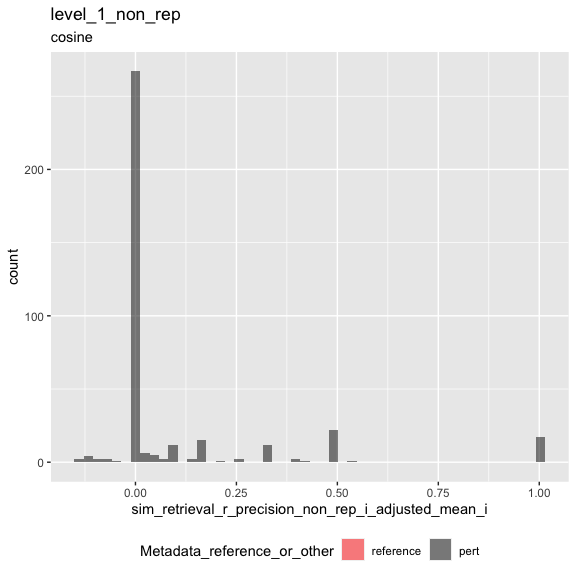
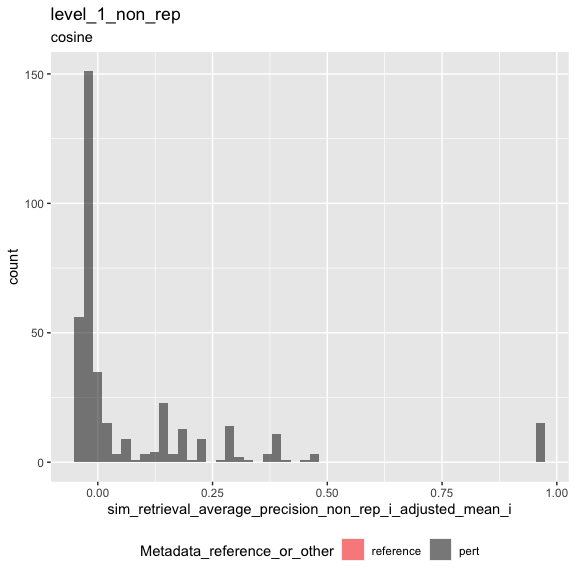
bin n

diff --git a/matric/results/d895866b/4.inspect_metrics.md b/matric/results/d895866b/4.inspect_metrics.md
@@ -353,6 +353,39 @@ level_1_0_metrics %>%
 |                            6 |                              286 |
 
 ``` r
+pow <- 1.3
+points <- level_1_0_metrics[[glue("sim_stat_background_n_{type}_i")]]
+max_value <- max(points)
+break_point <- ceiling(seq(1, ceiling((max_value)^(1/pow)), 1)**(pow))
+points_mapped <- points %>% map_dbl(function(i) break_point[min(which(break_point > i))])
+
+level_1_0_metrics <-
+  level_1_0_metrics %>%
+  mutate(sim_stat_background_n_mapped = points_mapped)
+```
+
+``` r
+level_1_0_metrics %>%
+  distinct(across(all_of(c(
+    glue("sim_stat_signal_n_{type}_i"),
+    "sim_stat_background_n_mapped"
+    #glue("sim_stat_background_n_{type}_i")
+  ))))
+```
+
+| sim_stat_signal_n\_non_rep_i | sim_stat_background_n\_mapped |
+|-----------------------------:|------------------------------:|
+|                            1 |                           289 |
+|                            2 |                           289 |
+|                            3 |                           289 |
+|                            4 |                           289 |
+|                            9 |                           289 |
+|                            6 |                           289 |
+|                            5 |                           289 |
+|                            8 |                           289 |
+|                            7 |                           289 |
+
+``` r
 future::plan(future::multisession, workers = 14)
 ```
 
@@ -361,7 +394,8 @@ null_thresholds <-
   level_1_0_metrics %>%
   distinct(across(all_of(c(
     glue("sim_stat_signal_n_{type}_i"),
-    glue("sim_stat_background_n_{type}_i")
+    "sim_stat_background_n_mapped"
+    #glue("sim_stat_background_n_{type}_i")
   )))) %>%
   rename(m = 1, n = 2) %>%
   furrr::future_pmap_dfr(function(m, n)
@@ -371,38 +405,32 @@ null_thresholds <-
   },
   .options = furrr::furrr_options(seed = params$random_seed))
 
-null_thresholds
+null_thresholds %>%
+  arrange(m, n)
 ```
 
 |   m |   n | sim_stat_average_precision_null | sim_stat_r\_precision_null |
 |----:|----:|--------------------------------:|---------------------------:|
-|   1 | 287 |                       0.0344828 |                  0.0000000 |
-|   2 | 287 |                       0.0438459 |                  0.0000000 |
-|   3 | 287 |                       0.0507361 |                  0.0000000 |
-|   4 | 287 |                       0.0554044 |                  0.0000000 |
-|   9 | 287 |                       0.0795844 |                  0.1111111 |
-|   6 | 287 |                       0.0663900 |                  0.1666667 |
-|   5 | 287 |                       0.0627438 |                  0.0000000 |
-|   8 | 287 |                       0.0719994 |                  0.1250000 |
-|   1 | 286 |                       0.0344828 |                  0.0000000 |
-|   4 | 286 |                       0.0557231 |                  0.0000000 |
-|   3 | 286 |                       0.0514284 |                  0.0000000 |
-|   5 | 286 |                       0.0621443 |                  0.0000000 |
-|   7 | 287 |                       0.0681466 |                  0.1428571 |
-|   2 | 286 |                       0.0435604 |                  0.0000000 |
-|   8 | 286 |                       0.0721083 |                  0.1250000 |
-|   6 | 286 |                       0.0635022 |                  0.1666667 |
+|   1 | 289 |                       0.0344828 |                  0.0000000 |
+|   2 | 289 |                       0.0434876 |                  0.0000000 |
+|   3 | 289 |                       0.0490047 |                  0.0000000 |
+|   4 | 289 |                       0.0554717 |                  0.0000000 |
+|   5 | 289 |                       0.0601857 |                  0.0000000 |
+|   6 | 289 |                       0.0657854 |                  0.1666667 |
+|   7 | 289 |                       0.0706246 |                  0.1428571 |
+|   8 | 289 |                       0.0717248 |                  0.1250000 |
+|   9 | 289 |                       0.0767943 |                  0.1111111 |
 
 ``` r
 join_vars <- c("m", "n")
 names(join_vars) <-
   c(glue("sim_stat_signal_n_{type}_i"),
-    glue("sim_stat_background_n_{type}_i"))
+    "sim_stat_background_n_mapped")
 join_vars
 ```
 
-    ##     sim_stat_signal_n_non_rep_i sim_stat_background_n_non_rep_i 
-    ##                             "m"                             "n"
+    ##  sim_stat_signal_n_non_rep_i sim_stat_background_n_mapped 
+    ##                          "m"                          "n"
 
 ``` r
 level_1_0_metrics <-
@@ -498,7 +526,7 @@ result <-
 result$fig1
 ```
 
-![](4.inspect_metrics_files/figure-gfm/unnamed-chunk-32-1.png)<!-- -->
+![](4.inspect_metrics_files/figure-gfm/unnamed-chunk-34-1.png)<!-- -->
 
 ``` r
 level_1_metrics_null_adjusted %>%
@@ -523,7 +551,7 @@ result <-
 result$fig1
 ```
 
-![](4.inspect_metrics_files/figure-gfm/unnamed-chunk-34-1.png)<!-- -->
+![](4.inspect_metrics_files/figure-gfm/unnamed-chunk-36-1.png)<!-- -->
 
 ``` r
 level_1_metrics_null_adjusted %>%
@@ -548,7 +576,7 @@ result <-
 result$fig1
 ```
 
-![](4.inspect_metrics_files/figure-gfm/unnamed-chunk-36-1.png)<!-- -->
+![](4.inspect_metrics_files/figure-gfm/unnamed-chunk-38-1.png)<!-- -->
 
 ``` r
 result <-
@@ -561,7 +589,7 @@ result <-
 result$fig1
 ```
 
-![](4.inspect_metrics_files/figure-gfm/unnamed-chunk-37-1.png)<!-- -->
+![](4.inspect_metrics_files/figure-gfm/unnamed-chunk-39-1.png)<!-- -->
 
 ``` r
 level_1_metrics %>%
@@ -590,7 +618,7 @@ level_1_metrics %>%
   GGally::ggpairs(progress = FALSE)
 ```
 
-![](4.inspect_metrics_files/figure-gfm/unnamed-chunk-39-1.png)<!-- -->
+![](4.inspect_metrics_files/figure-gfm/unnamed-chunk-41-1.png)<!-- -->
 \# Checks
 
 ``` r
